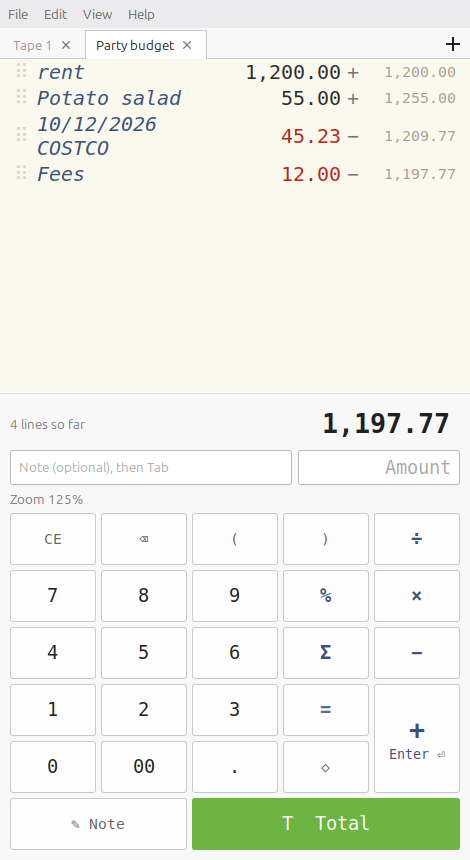
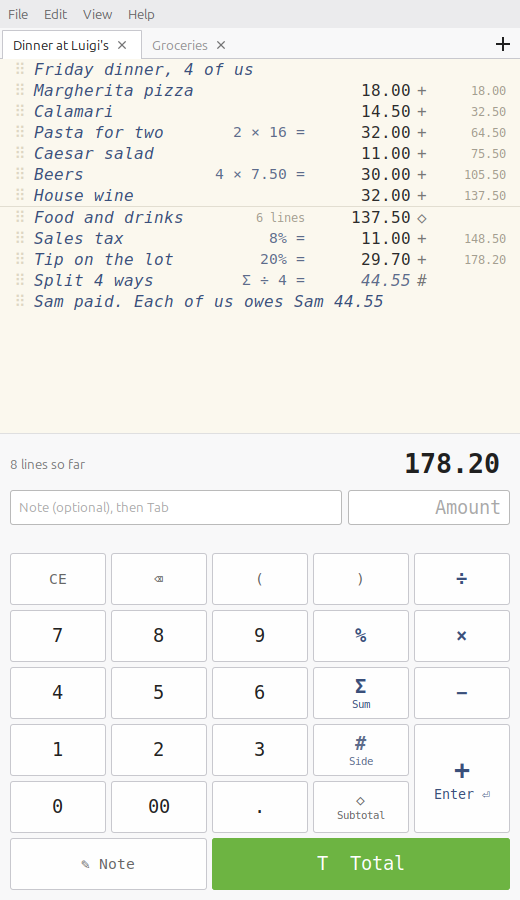
README: new screenshot of a dinner bill split four ways

diff --git a/README.md b/README.md
@@ -3,7 +3,7 @@
 A desktop adding-machine calculator for Linux, with a paper tape that keeps a
 running tally and lets you write notes next to the numbers.
 
-![TallyForth with two tapes open](docs/screenshot.png)
+![A dinner bill on TallyForth: six items with notes, a subtotal, 8% tax and a 20% tip, then the total split four ways as a side line](docs/screenshot.png)
 
 Type `Potato salad $55` and press Enter: the note and the amount go on the tape
 together, and the total updates. It's built for everyday business math, such as
